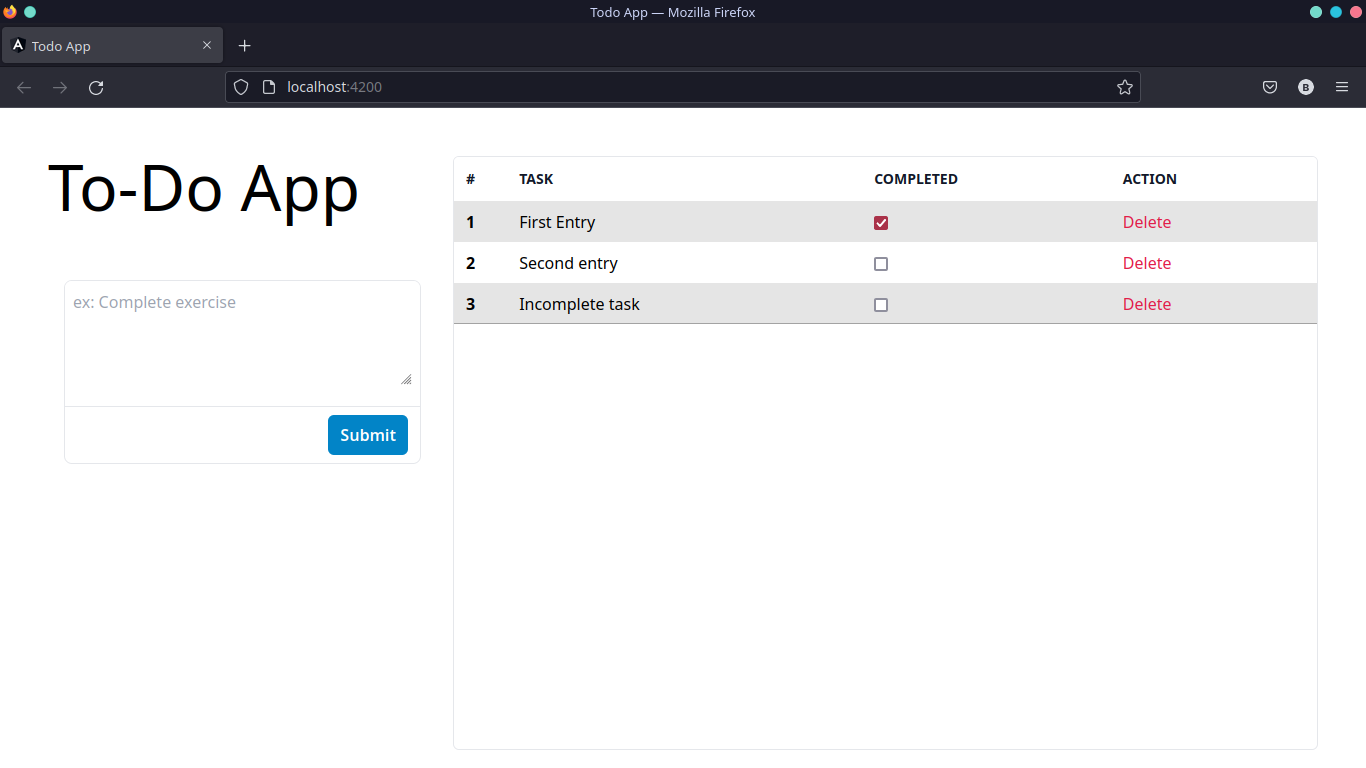
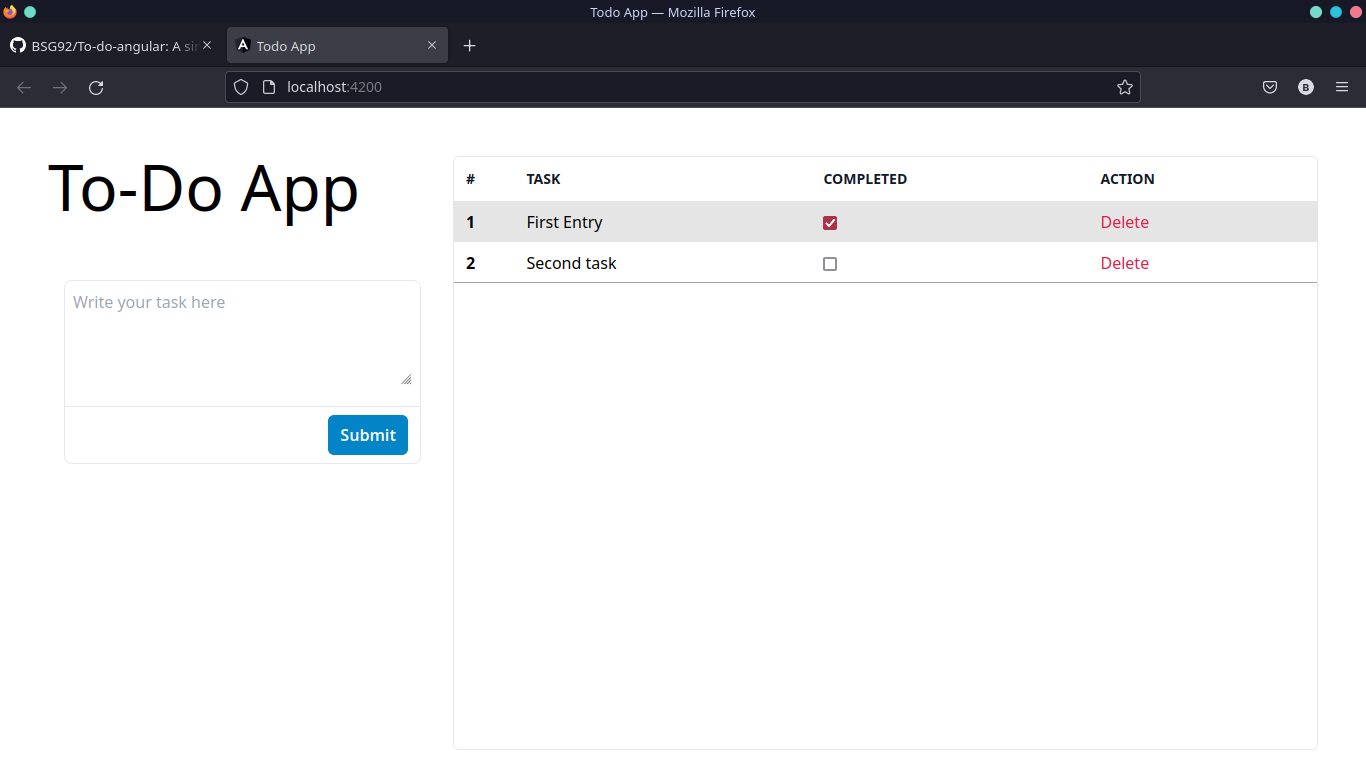
updated screenshots

diff --git a/src/app/todolist/todolist.component.html b/src/app/todolist/todolist.component.html
@@ -19,7 +19,7 @@
               ngModel
               name="task"
               required
-              placeholder="ex: Complete exercise"
+              placeholder="Write your task here"
             ></textarea>
             </div>
             <small
